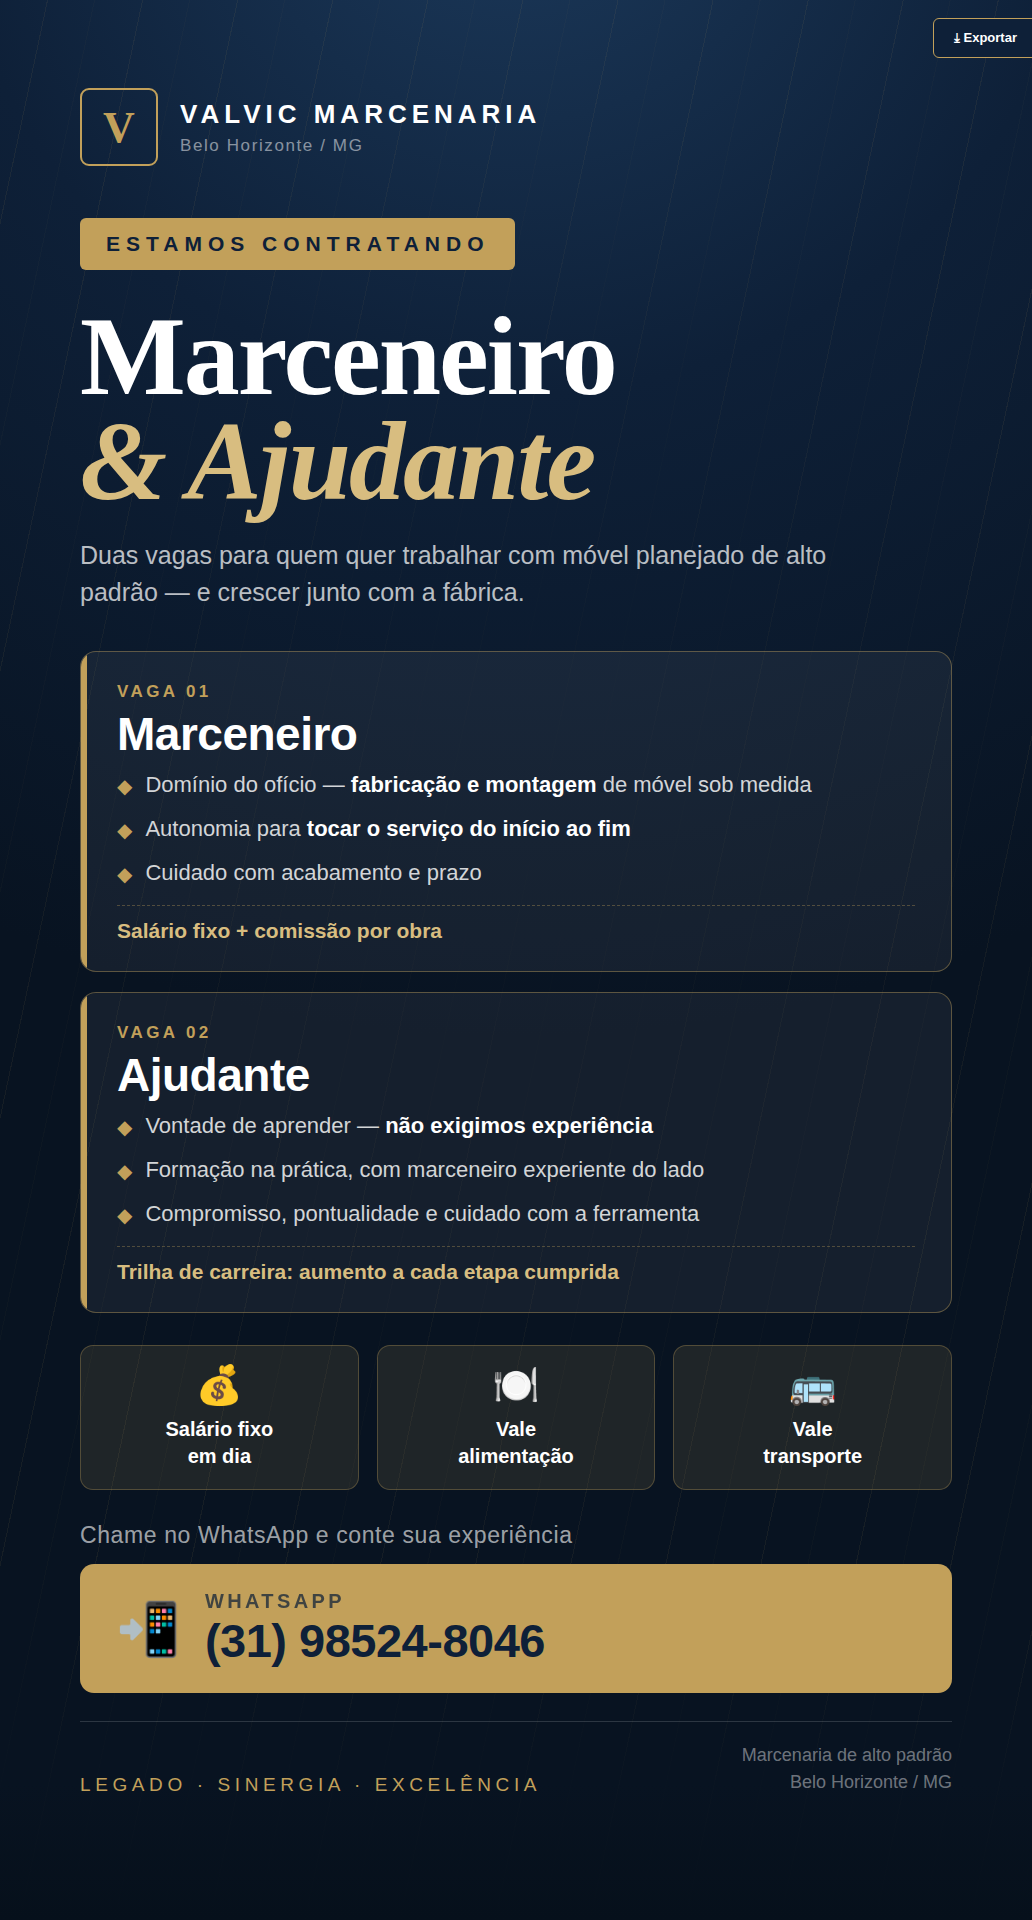
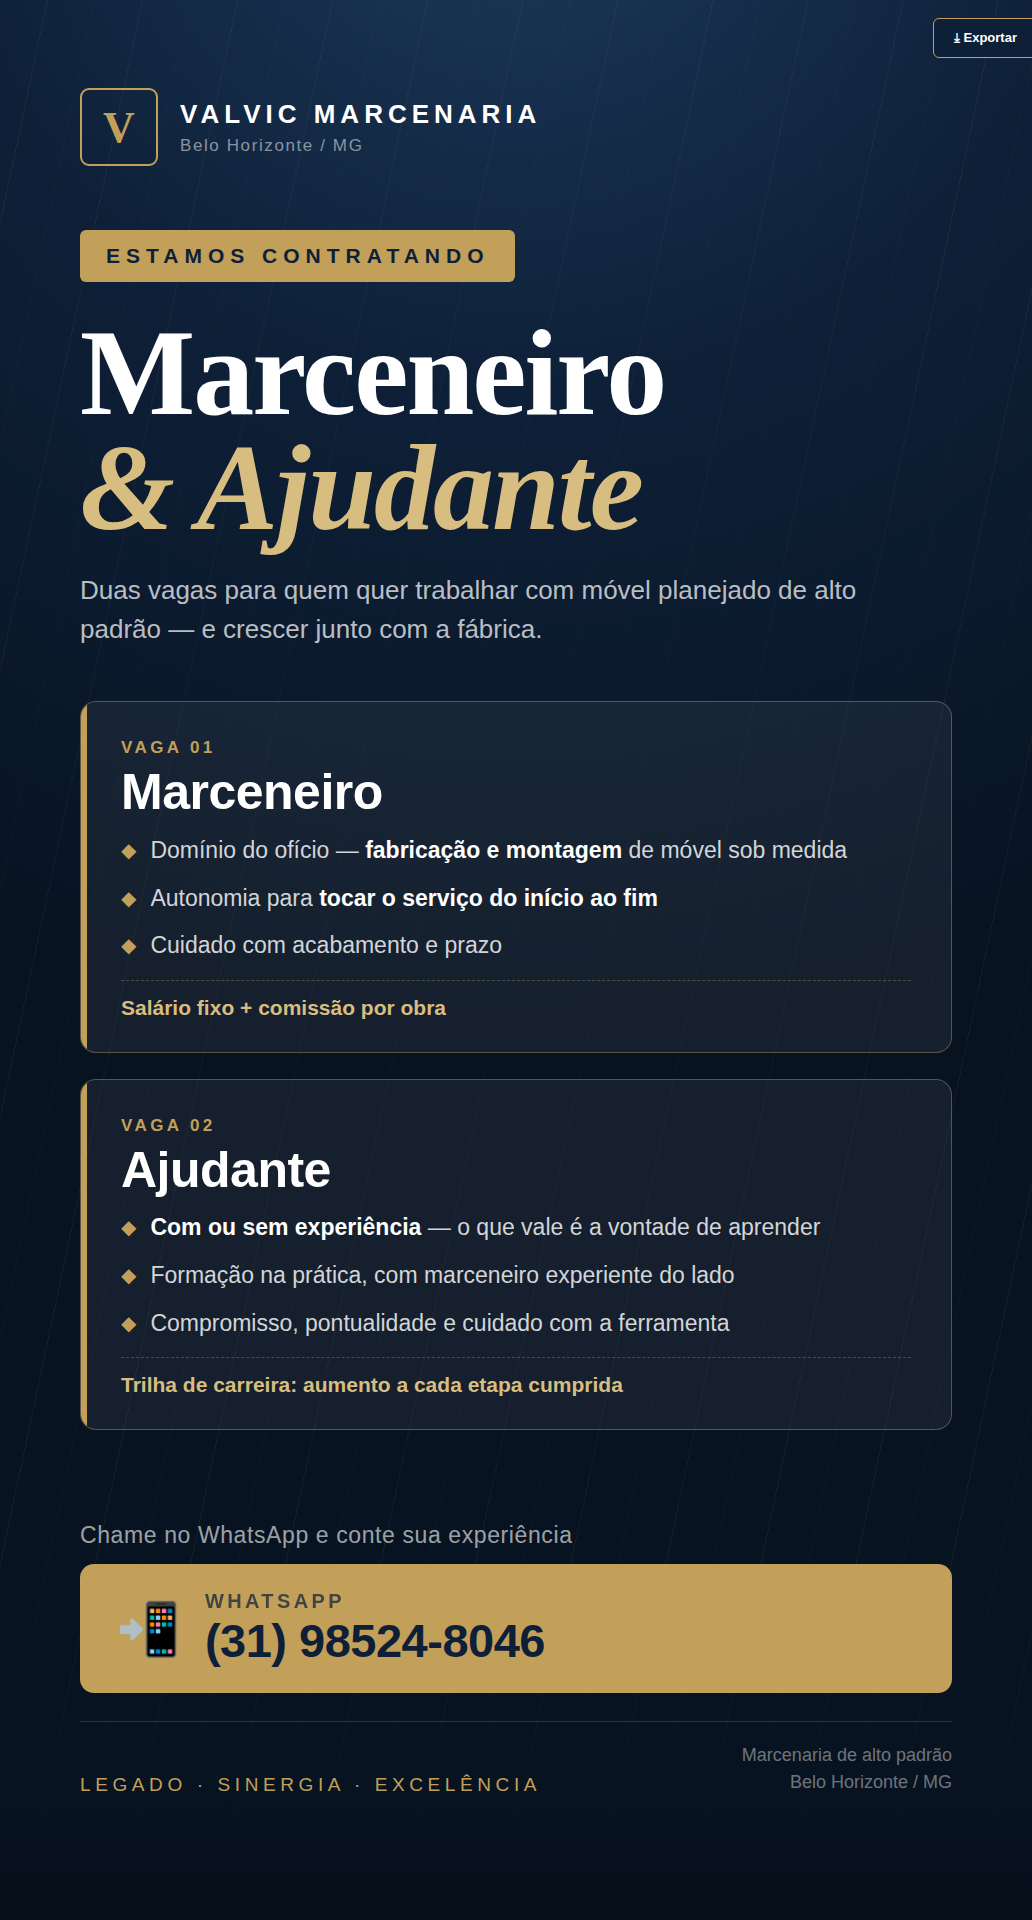
Story de vagas: remove os benefícios e abre a vaga de ajudante
- Sai a faixa de salário, vale-alimentação e vale-transporte
- Ajudante passa de "não exigimos experiência" para "com ou sem
  experiência", o que também alcança quem já tem prática
- Com o espaço liberado, título e cartões ganham respiro

Claude-Session: https://claude.ai/code/session_01K1S8HPUyosaj44kGisijyQ

Changed region(s): [[0.062, 0.0938, 0.8372, 0.7812], [0.7442, 0.7188, 0.8372, 0.7812], [0.062, 0.6875, 0.093, 0.75]]

diff --git a/painel/vaga-marceneiro-ajudante-story.html b/painel/vaga-marceneiro-ajudante-story.html
@@ -48,35 +48,28 @@
   .brand .ci{ font-size:17px; color:rgba(255,255,255,.5); letter-spacing:1.6px; margin-top:6px; }
 
   /* ── chamada ── */
-  .kx{ margin-top:52px; display:inline-flex; align-self:flex-start; align-items:center; gap:14px;
+  .kx{ margin-top:64px; display:inline-flex; align-self:flex-start; align-items:center; gap:14px;
     font-size:21px; font-weight:800; letter-spacing:6px; text-transform:uppercase;
     color:var(--navy); background:var(--gold); padding:14px 26px; border-radius:6px; }
-  h1{ font-family:'Cormorant Garamond',serif; font-weight:600; font-size:112px; line-height:.94;
+  h1{ font-family:'Cormorant Garamond',serif; font-weight:600; font-size:122px; line-height:.94;
     margin-top:34px; letter-spacing:-2px; }
   h1 em{ font-style:italic; color:var(--gold-soft); display:block; }
-  .sub{ font-size:25px; line-height:1.48; color:rgba(255,255,255,.72); margin-top:22px; max-width:820px; }
+  .sub{ font-size:26px; line-height:1.5; color:rgba(255,255,255,.72); margin-top:26px; max-width:820px; }
 
   /* ── as duas vagas ── */
-  .vagas{ margin-top:40px; display:flex; flex-direction:column; gap:20px; }
+  .vagas{ margin-top:52px; display:flex; flex-direction:column; gap:26px; }
   .vaga{ background:rgba(255,255,255,.055); border:1.5px solid rgba(194,160,90,.42);
-    border-radius:16px; padding:30px 36px 28px; position:relative; overflow:hidden; }
+    border-radius:16px; padding:36px 40px 32px; position:relative; overflow:hidden; }
   .vaga::before{ content:""; position:absolute; left:0; top:0; bottom:0; width:6px; background:var(--gold); }
   .vaga .tag{ font-size:17px; font-weight:800; letter-spacing:3.4px; text-transform:uppercase;
     color:var(--gold); }
-  .vaga h2{ font-size:46px; font-weight:800; letter-spacing:-.5px; margin-top:8px; line-height:1.05; }
-  .vaga .li{ display:flex; align-items:flex-start; gap:13px; margin-top:12px;
-    font-size:22px; line-height:1.4; color:rgba(255,255,255,.82); }
+  .vaga h2{ font-size:50px; font-weight:800; letter-spacing:-.5px; margin-top:8px; line-height:1.05; }
+  .vaga .li{ display:flex; align-items:flex-start; gap:14px; margin-top:15px;
+    font-size:23px; line-height:1.42; color:rgba(255,255,255,.82); }
   .vaga .li b{ color:#fff; font-weight:700; }
   .vaga .li i{ font-style:normal; color:var(--gold); font-size:20px; line-height:1.6; }
-  .vaga .nota{ margin-top:15px; padding-top:13px; border-top:1px dashed rgba(194,160,90,.35);
+  .vaga .nota{ margin-top:18px; padding-top:15px; border-top:1px dashed rgba(194,160,90,.35);
     font-size:21px; color:var(--gold-soft); font-weight:600; }
-
-  /* ── benefícios ── */
-  .benef{ margin-top:32px; display:grid; grid-template-columns:repeat(3,1fr); gap:18px; }
-  .bf{ background:rgba(194,160,90,.13); border:1px solid rgba(194,160,90,.32);
-    border-radius:13px; padding:20px 14px; text-align:center; }
-  .bf .ic{ font-size:38px; line-height:1; }
-  .bf .tx{ font-size:20px; font-weight:700; margin-top:12px; line-height:1.32; }
 
   /* ── contato ── */
   .cta{ margin-top:auto; }
@@ -129,17 +122,11 @@
       <div class="vaga">
         <div class="tag">Vaga 02</div>
         <h2>Ajudante</h2>
-        <div class="li"><i>◆</i><span>Vontade de aprender — <b>não exigimos experiência</b></span></div>
+        <div class="li"><i>◆</i><span><b>Com ou sem experiência</b> — o que vale é a vontade de aprender</span></div>
         <div class="li"><i>◆</i><span>Formação na prática, com marceneiro experiente do lado</span></div>
         <div class="li"><i>◆</i><span>Compromisso, pontualidade e cuidado com a ferramenta</span></div>
         <div class="nota">Trilha de carreira: aumento a cada etapa cumprida</div>
       </div>
-    </div>
-
-    <div class="benef">
-      <div class="bf"><div class="ic">💰</div><div class="tx">Salário fixo<br>em dia</div></div>
-      <div class="bf"><div class="ic">🍽</div><div class="tx">Vale<br>alimentação</div></div>
-      <div class="bf"><div class="ic">🚌</div><div class="tx">Vale<br>transporte</div></div>
     </div>
 
     <div class="cta">

diff --git a/.claude/skills/gestao-estrategica-operacional/dados/mapa-documentos.md b/.claude/skills/gestao-estrategica-operacional/dados/mapa-documentos.md
@@ -55,7 +55,7 @@ quando criar/revisar documentos.
 | **Layout do galpão (Fase 1)** | Layout do galpão atual | `layout-fase1-galpao-atual.html` · `Valvic_Layout_Fase1_Galpao_Atual.pdf` · `layout_galpao_1000m2.png` |
 | **Advertência (RH)** | Documento disciplinar (exemplo Jomar/Projeto Yasmin) | `advertencia-jomar.html` · `Advertencia_Jomar_Projeto_Yasmin.pdf` |
 | **Ocorrência & reparo — Maria e Valdenir** | Registro formal de dano ao painel de TV laqueado (Vale dos Cristais, dano de terceiros) + custos do reparo in loco (total R$ 750, marceneiro cortesia) | `ocorrencia-reparo-maria-valdenir.html` · `Valvic_Ocorrencia_Reparo_Maria_Valdenir.pdf` |
-| **Story Instagram — Vagas Marceneiro e Ajudante** | Arte de story (1080×1920) com **as duas vagas no mesmo post**: Marceneiro (domínio do ofício, autonomia, salário fixo + comissão por obra) e Ajudante (**não exige experiência**, formação na prática, trilha de carreira com aumento a cada etapa). Faixa de 3 benefícios (salário em dia, VA, VT), CTA de WhatsApp em bloco dourado e rodapé com os valores da marca. Estética Valvic navy/gold com textura de grão em linhas douradas. **Sem valores de salário**, a exemplo do story anterior. Área segura de 124 px no rodapé para não colidir com a barra do Instagram | `vaga-marceneiro-ajudante-story.html` · `Valvic_Vaga_Marceneiro_Ajudante_Story.png` |
+| **Story Instagram — Vagas Marceneiro e Ajudante** | Arte de story (1080×1920) com **as duas vagas no mesmo post**: Marceneiro (domínio do ofício, autonomia, salário fixo + comissão por obra) e Ajudante (**com ou sem experiência**, formação na prática, trilha de carreira com aumento a cada etapa). CTA de WhatsApp em bloco dourado e rodapé com os valores da marca. **Sem faixa de benefícios**, a pedido. Estética Valvic navy/gold com textura de grão em linhas douradas. **Sem valores de salário**, a exemplo do story anterior. Área segura de 124 px no rodapé para não colidir com a barra do Instagram | `vaga-marceneiro-ajudante-story.html` · `Valvic_Vaga_Marceneiro_Ajudante_Story.png` |
 | **Story Instagram — Vaga Marceneiro (anterior)** | Arte de divulgação de vaga (1080×1920), estética Valvic (navy/gold), profissional experiente com domínio total do ofício, salário fixo + comissão, VA + VT, contato WhatsApp | `vaga-marceneiro-instagram-story.html` · `Valvic_Vaga_Marceneiro_Story.png` |
 | **Índice do painel** | Página-índice dos documentos | `index.html` |
 
